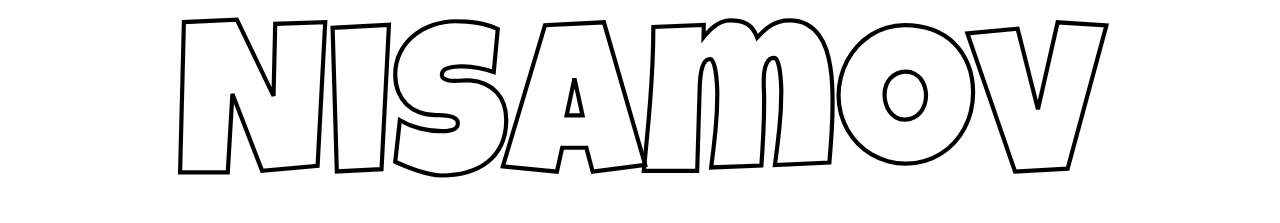
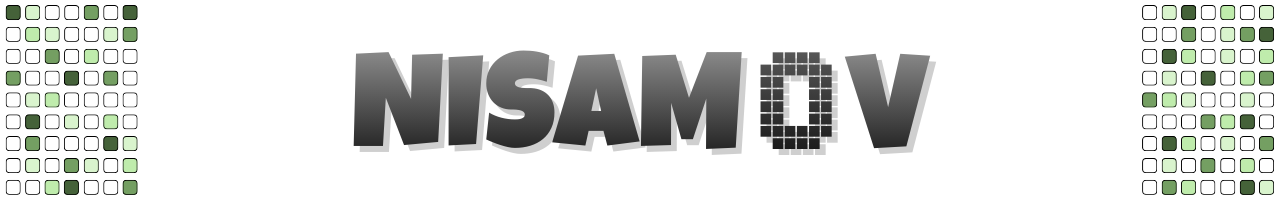
Actualización de perfil

diff --git a/README.md b/README.md
@@ -1,36 +1,9 @@
-![Imagen Titulo](/media/nsm.png)
-
-[![LinkedIn - Nisamov](https://img.shields.io/badge/LinkedIn-blue?logo=linkedin&logoColor=white)](https://www.linkedin.com/in/nisamov/)
+![Imagen Titulo](/media/nsm.gif)
 
 | Repositorios Destacados | Descripción |
 |-------------|-------------|
-| [Linux Commands](https://github.com/Theritex/LinuxCommands) | LinuxCommands es un repositorio creado para servir como guía y apoyo a usuarios o administradores de sistemas Linux |
-| [Router and Switch Commands](https://github.com/Theritex/RouterSwitchCommands) | RouterCommands es un repositorio creado para servir como guía y apoyo a administradores de redes |
+| [Linux Commands](https://github.com/Theritex/LinuxCommands) | ![LinuxCommands](/media/sheyald.png) |
+| [Router and Switch Commands](https://github.com/Theritex/RouterSwitchCommands) | ![RouterSwitchCommands](/media/RouterSwitchCommands.png) |
 
-<details open>
-<summary><strong>• Linux Commands</strong></summary>
-<div align="center">
-  <h1>Linux Commands</h1>
-</div>
-<strong>Linux Commands</strong> es un repositorio concebido para todas aquellas personas que desean aprender a realizar distintos servicios en sistemas Linux, así como para quienes buscan información detallada y específica sobre los contenidos disponibles en el propio repositorio.
 
-Se trata de mi proyecto más ambicioso, en el cual he volcado varios años de estudio, experiencia y dedicación, poniendo todo ese conocimiento a disposición del público de forma abierta y estructurada.
-
-El repositorio está íntegramente redactado en documentos ascii (`.adoc`), lo que permite su exportación directa a PDF, quedando perfectamente preparado para su uso en entornos educativos, aulas formativas y como material de consulta profesional.
-
-![LinuxCommands](/media/LinuxCommands.png)
-</details>
-
-<details open>
-<summary><strong>• Router & Switch Commands</strong></summary>
-<div align="center">
-  <h1>Router & Switch Commands</h1>
-</div>
-<strong>Router and Switch Commands</strong> es un repositorio pensado para todas aquellas personas que desean aprender a configurar, gestionar y solucionar problemas en dispositivos de red, incluyendo routers y switches de distintas marcas y modelos.
-
-Este proyecto recoge de forma estructurada los comandos esenciales y avanzados, acompañados de ejemplos prácticos y notas técnicas que facilitan su comprensión y aplicación en entornos reales. Su objetivo es servir tanto como material de estudio para estudiantes y profesionales de redes como guía de referencia rápida para administradores y técnicos de sistemas.
-
-El contenido está redactado en Markdown, lo que permite su exportación directa a PDF y su uso en aulas formativas, laboratorios de práctica o como documentación profesional de consulta rápida.
-
-![RouterSwitchCommands](/media/RouterSwitchCommands.png)
-</details>
+[![LinkedIn - Nisamov](https://img.shields.io/badge/LinkedIn-blue?logo=linkedin&logoColor=white)](https://www.linkedin.com/in/nisamov/)
